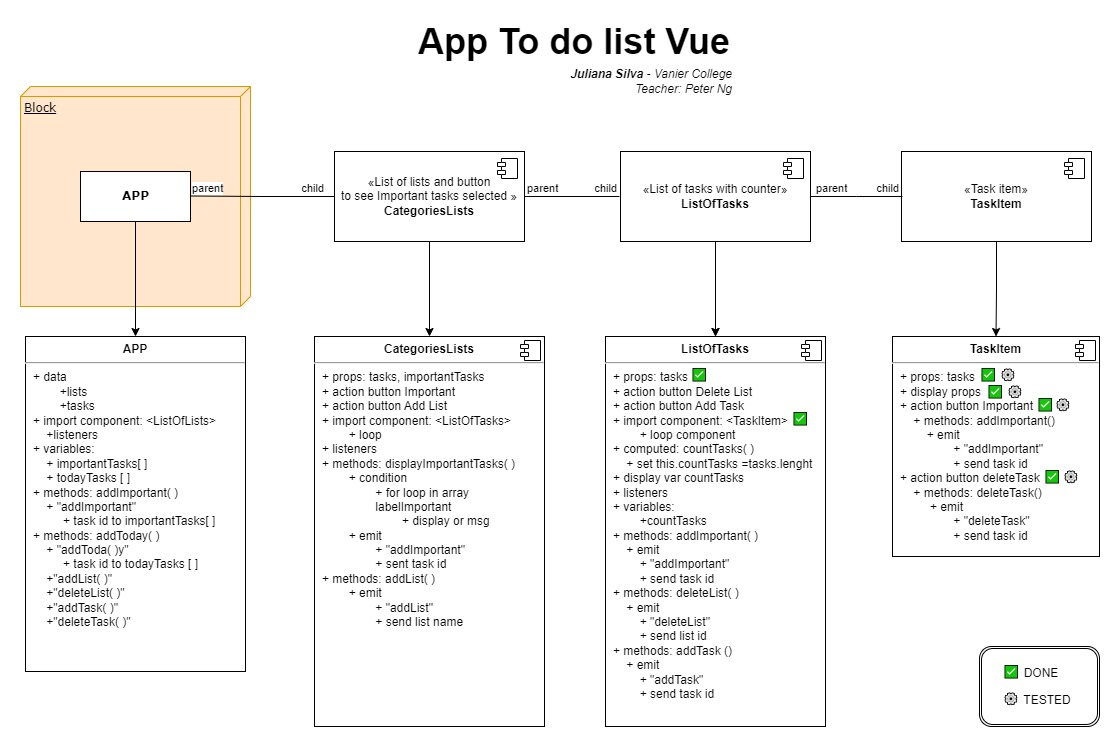
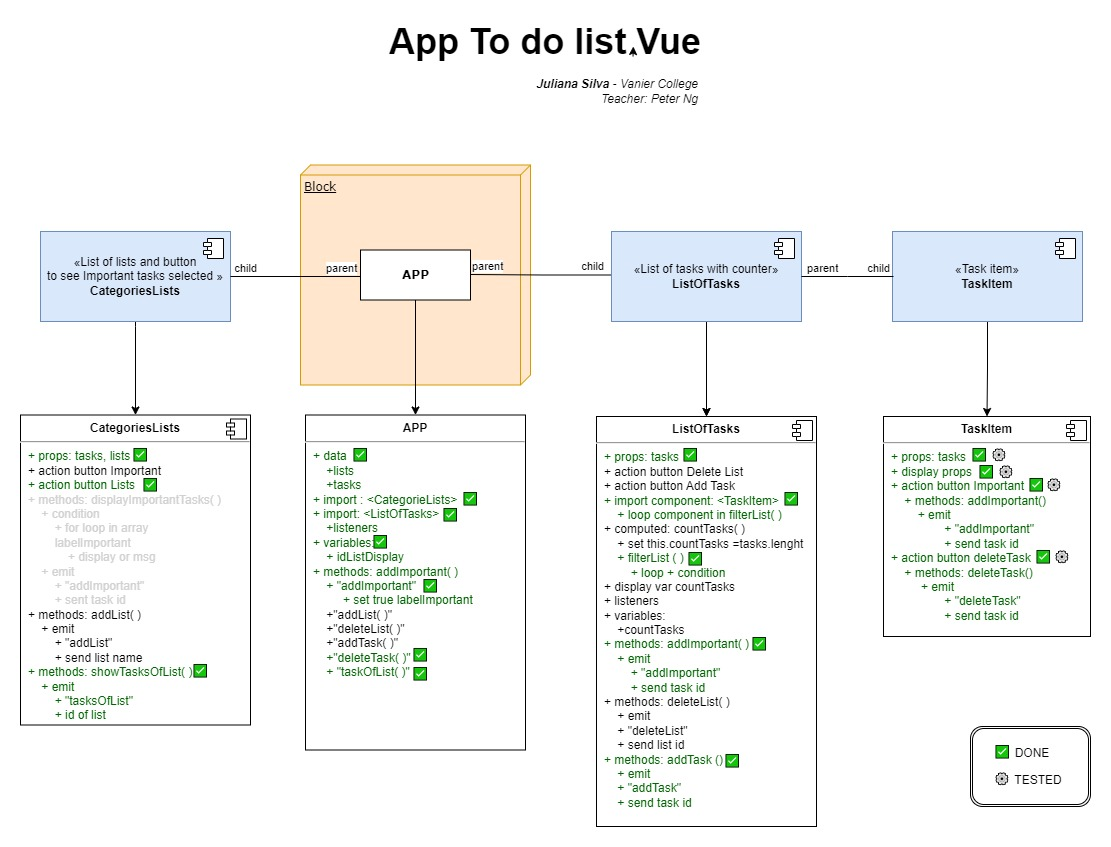
updated img readme

diff --git a/src/App.vue b/src/App.vue
@@ -3,7 +3,11 @@
     {{ task.labelImportant === true ? "Important" : "" }}
   </button> -->
 
-  <CategoriesLists :lists="lists" @tasksOfList="tasksOfList"></CategoriesLists>
+  <CategoriesLists
+    :lists="lists"
+    :tasks="tasks"
+    @tasksOfList="tasksOfList"
+  ></CategoriesLists>
 
   <ListOfTasks
     :tasks="tasks"

diff --git a/src/components/CategoriesLists.vue b/src/components/CategoriesLists.vue
@@ -56,6 +56,10 @@ export default {
       // this.$emit("tasksOfList");
       // alert(`${this.list.id}`);
     },
+    // showImportantTask(id) {
+    //   this.$emit("importantList", id);
+    //   console.log(id);
+    // },
   },
 };
 </script>
